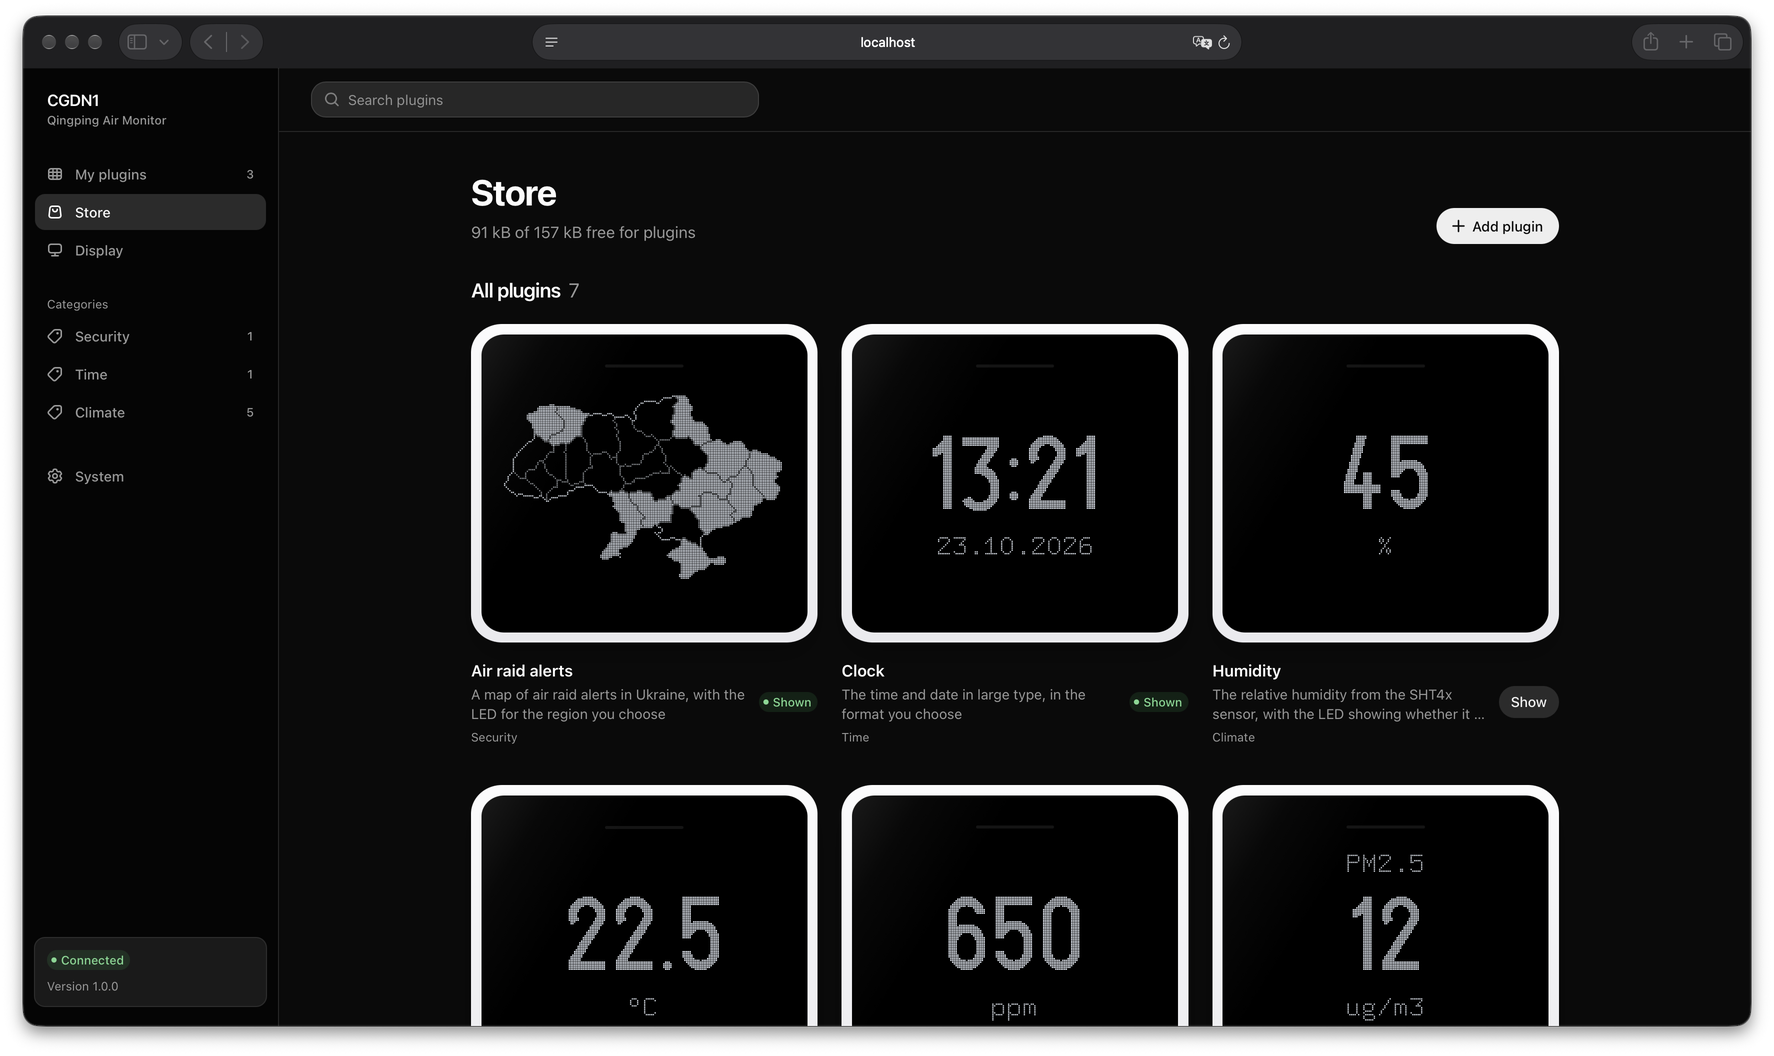
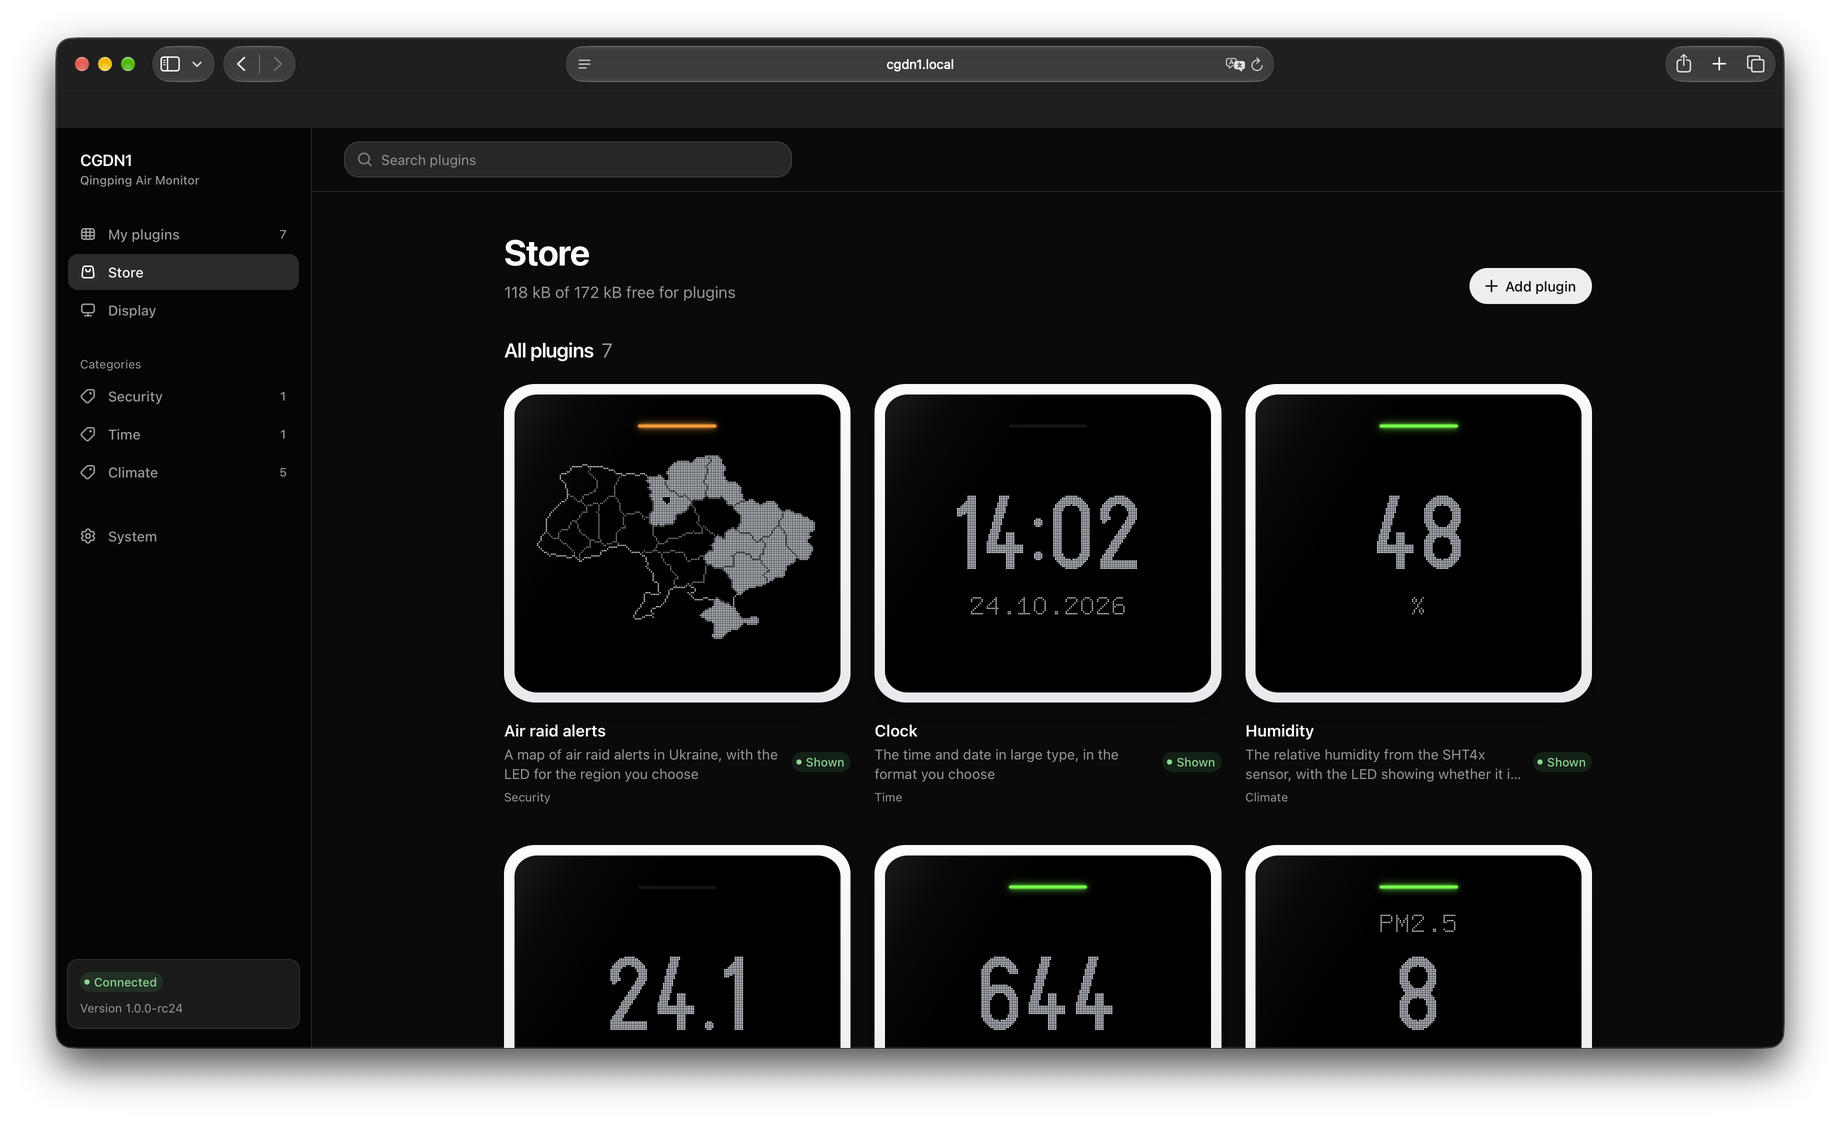
docs: live web screenshots from the device, light and dark in the README
Safari window captures of cgdn1.local on rc24 (live frames, LEDs, alert data), browsing in one tab. The README image joins a light and a dark capture of the store along a slanted line.

Changed region(s): [[0.0, 0.0, 0.9921, 1.0], [0.4961, 0.4062, 0.6201, 0.5625], [0.062, 0.4688, 0.093, 0.5]]

diff --git a/README.md b/README.md
@@ -6,7 +6,7 @@ small plugin, set up from a web interface.
 
 ![The screens](docs/images/screens/all.png)
 
-![The web interface](docs/images/web/store.png)
+![The web interface, light and dark](docs/images/web/themes.png)
 
 ## What it does
 
